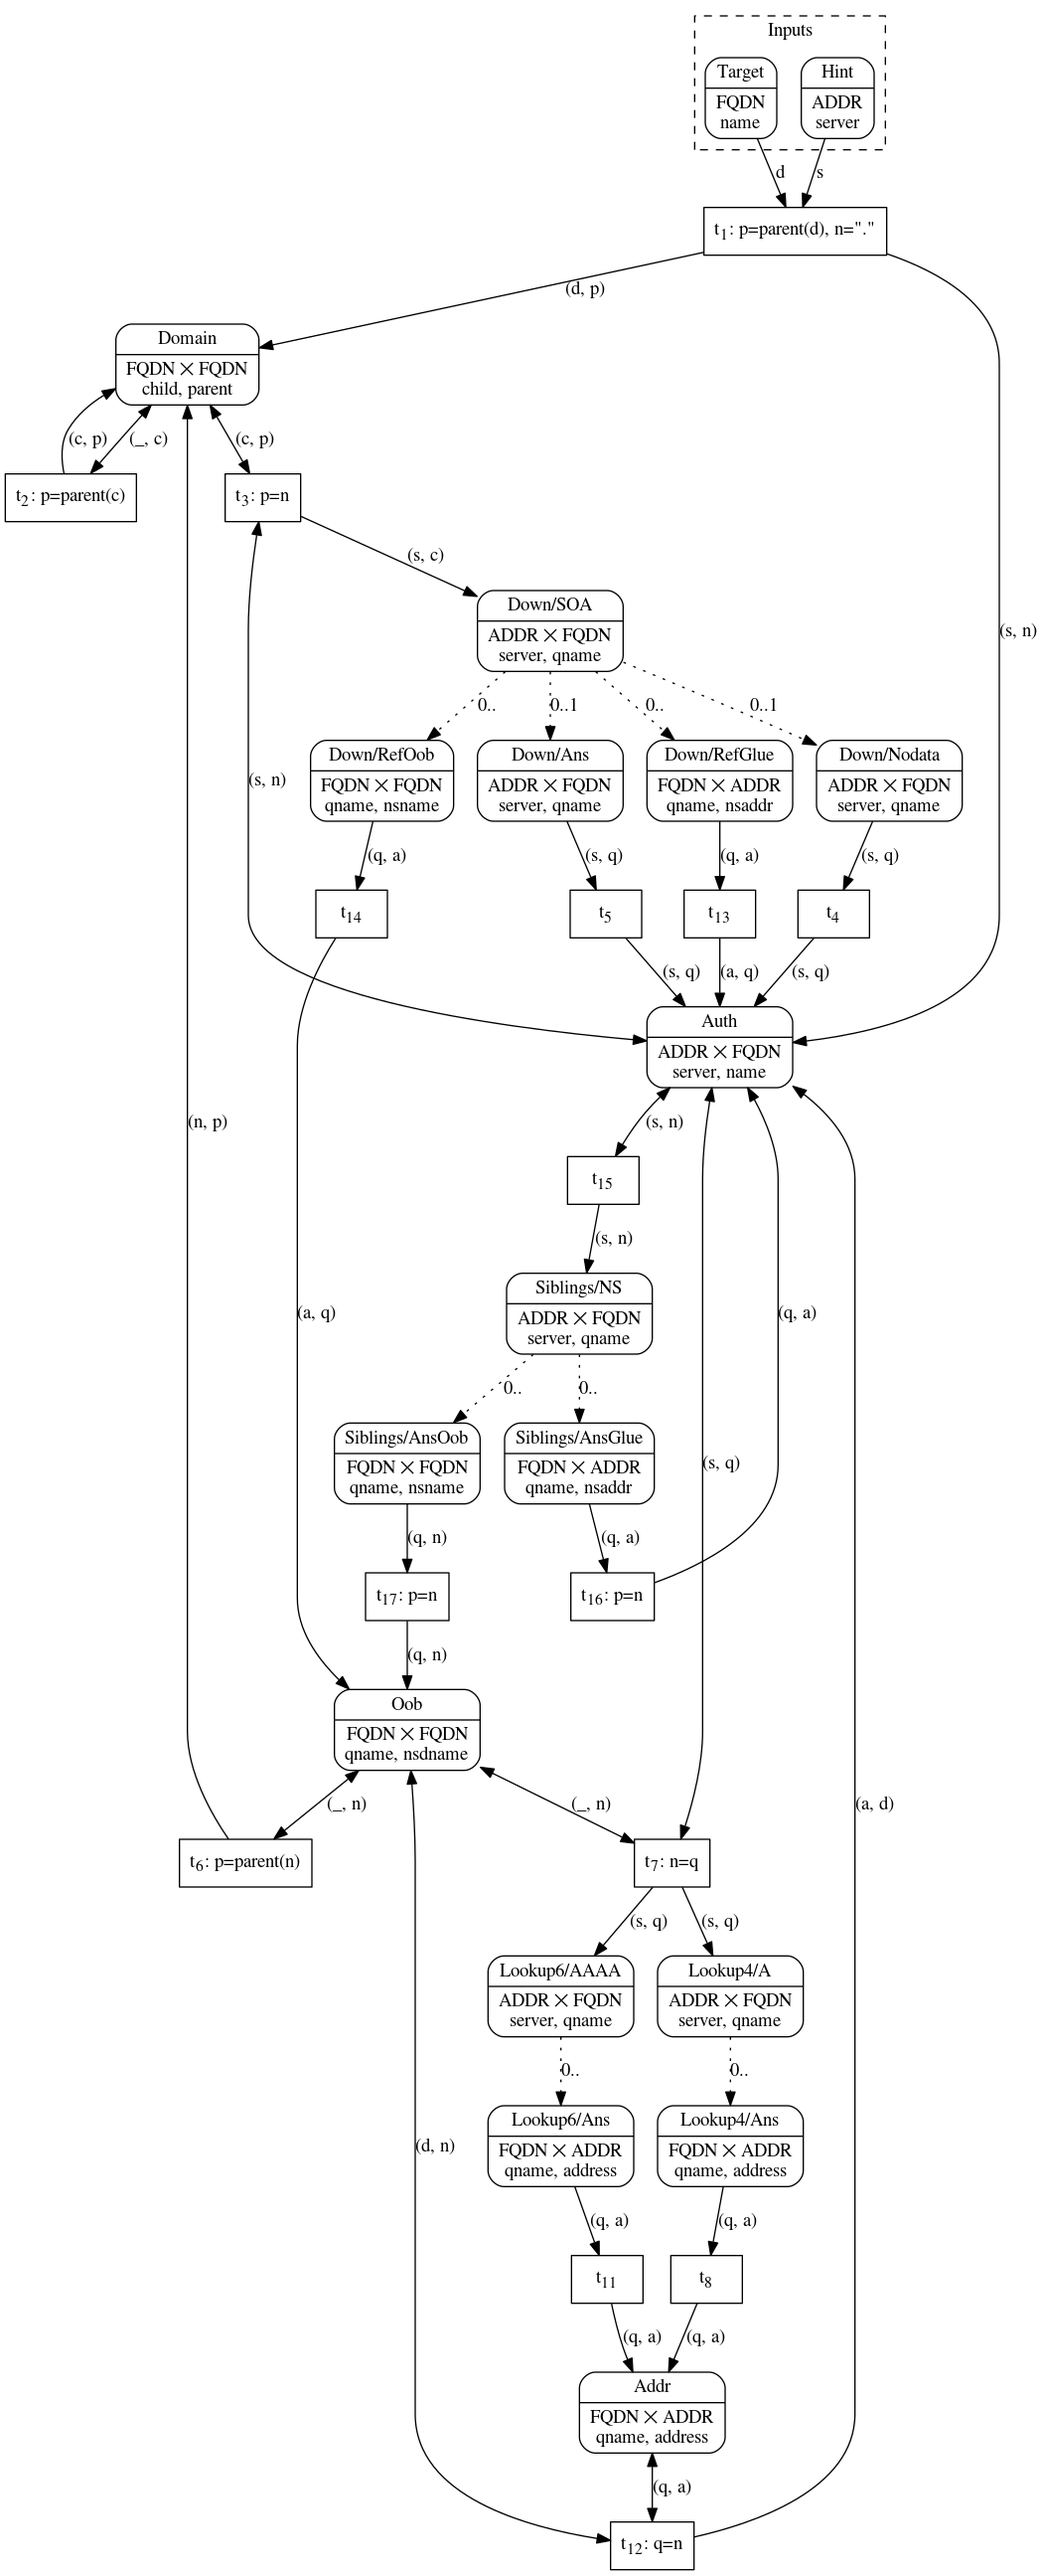
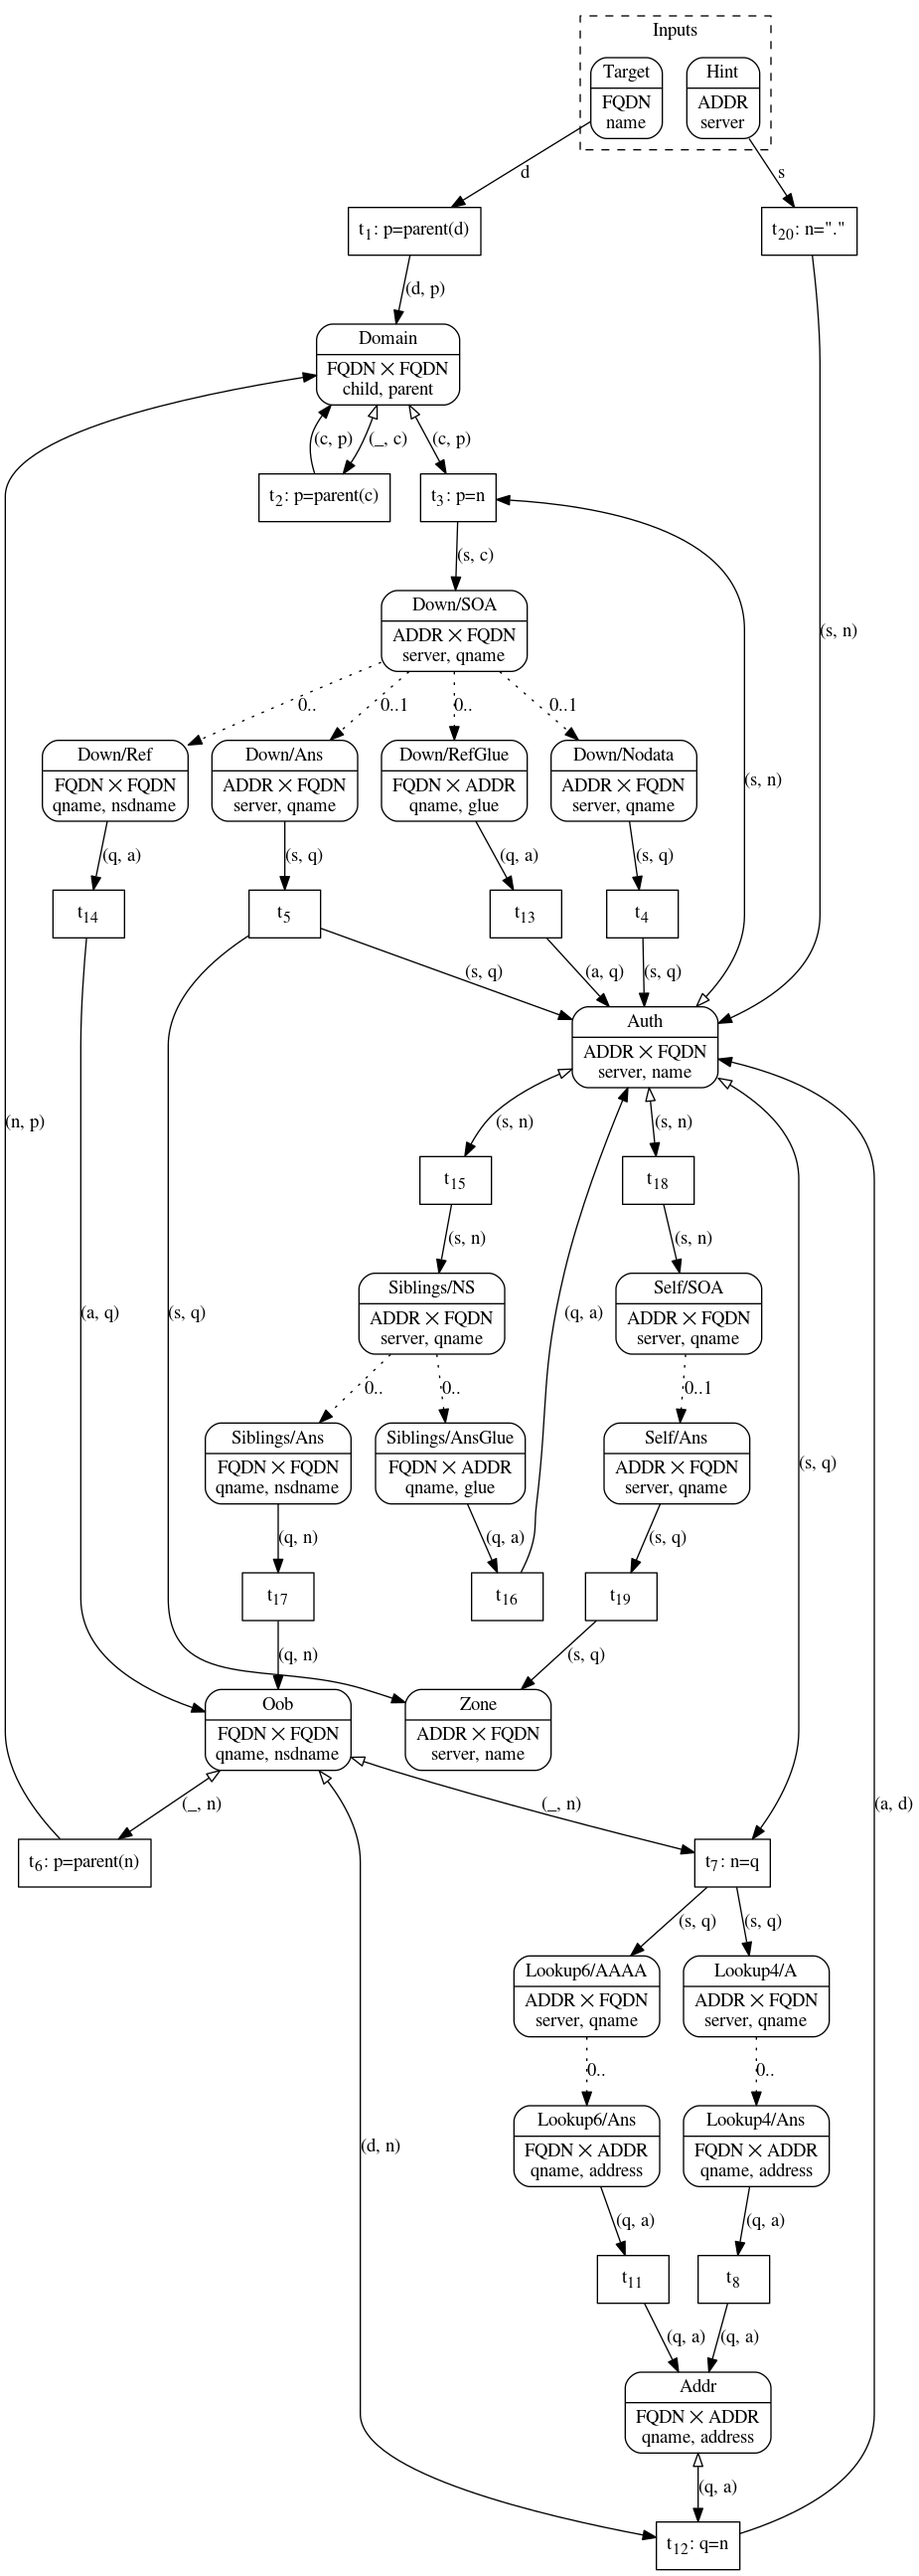
Clarify the notation in the diagram

diff --git a/README.md b/README.md
@@ -1,5 +1,99 @@
 # Topo
 
+## Notation
+
+This algorithm is defined in terms of a [Coloured Petri net] (CPN) with a few
+modifications to its rules.
+1. When a variable is used in a single place and never referred to, its name is
+   replaced with a placeholder underscore.
+
+2. For double ended arrows, the arrow head pointing to a place is depicted as
+   empty.
+   This is meant to let the reader know which arrows coming into a place are
+   double ended and which ones are not.
+   Even when the arrows themselves are very long.
+
+3. The guard expression of a transition may use a function named parent.
+   The `parent(FQDN: domain) → FQDN` function returns a copy of `domain` with
+   its least significant label removed. If `domain` contains no labels, an
+   identical FQDN is returned.
+
+4. In addition to the usual kind of places there is also "request places" and
+   "response places".
+
+   When a token is created in a "request place", a DNS request is sent to the
+   specified by the token.
+   The token also specifies the qname.
+   The qtype is taken from the name of the place.
+
+   When a response is received it is interpreted according to a set of
+   patterns.
+   Each time a pattern is matched, a token is created in the associated
+   response place, given that such a place exists.
+   The following patterns are defined:
+    1. Nodata
+       Criterion: A token is created in this place if the response has the
+       NODATA pseudo RCODE.
+    2. Ans
+       Criterion: A token is created in this place for each authoritative answer
+       record for the qname of the qtype.
+    3. AnsGlue
+       Precondition: A place of this kind must only be attached to request
+       places whose qname is NS.
+       Criterion: A token is created in this place for each A record and each
+       AAAA record in the additional section whose owner name matches the
+       NSDNAME of an authoritative NS answer for the qname of the qtype.
+    4. Ref
+       Criterion: A token is created in this place for each NS record in the
+       authority section.
+    5. RefGlue
+       Criterion: A token is created in this place for each A record and each
+       AAAA record in the additional section whose owner name matches the
+       NSDNAME of an NS record in the authority section.
+
+   The color set of a request place must be ADDR ⨉ FQDN: server, qname.
+   The exact color set of a response place is defined by the place itself, but
+   it must be a tuple consisting of the following elements:
+    1. ADDR: server - the IP address of the server the request was sent to.
+    2. FQDN: qname - the QNAME used in the request.
+    3. ADDR: glue - the ADDRESS of the A or AAAA record. Only valid for AnsGlue
+       and RefGlue response places.
+    4. FQDN: nsdname - the NSDNAME of the NS record. Only valid for Ref and
+       RefGlue response places, as well as Ans and AnsGlue response places
+       provided that the qtype is NS.
+    5. ADDR: address - the ADDRESS of the A or AAAA answer. Only valid for
+       Ans and AnsGlue response places provided that the qtype is A or AAAA.
+
+   The associations between request places and response places are depicted
+   with dotted arrows.
+
+   A label may be attached to the dotted arrow indicating the number of tokens
+   that may be created in the response place as a result of a single request.
+   The minimum number is always zero.
+   The maxmimum number is either 1 or positive infinity depending on the kind
+   and color set of the response place.
+   If the label is not present the maximum can still be inferred, but adding
+   the label is helpful to the reader.
+
+5. Unlike in regular CPNs where places contain multisets of tokens, these places
+   contain sets of tokens.
+
+6. For each qtype specified by at least one request place, there is a tracker
+   that keeps track of all tokens that have been created in request places with
+   that qtype.
+
+7. A transition can only fire if it would create at least one token in a place
+   where an identical token hasn't been before.
+
+8. A transition can only fire if it would not create a token in a request place 
+   that would be recognized by the tracker of that place.
+
+9. Execution continues with enabled transitions firing in any order until all
+   transitions are dead, causing the execution to terminate.
+
+Rules 5, 6, 7 and 8 are backwards compatible with [prioritised petri nets], 
+but by using these rules instead, we can keep the diagram more succinct.
+
 #### Inputs
 * A set of root hints.
 * A domain name.
@@ -13,41 +107,6 @@
 #### Procedure
 
 ![diagram](topo.png)
-
-This algorithm is defined in terms of a [Coloured Petri net] (CPN) with a few
-modifications to its rules.
-1. Unlike in regular CPNs where places track multisets of objects, these places
-   track sets of objects.
-2. A transition can only fire if it would send at least one object into a place
-   where it hasn't been seen before.
-3. Execution continues with live transitions firing in any order until all
-   transitions are dead, causing the execution to terminate.
-
-When a variable is used in a single place and never referred to, its name is
-replaced with a placeholder underscore.
-
-Three functions are available for use by the transitions.
-
-1. The `parent(domain: FQDN) → FQDN` function returns a copy of `domain` with
-   its least significant label removed. If `domain` contains no labels, an
-   identical FQDN is returned.
-
-2. The `send(server: ADDR, qname: FQDN, qtype: RRTYPE)` function sends a DNS
-   query for `qname` and `qtype` to `server`.
-
-3. The `receive(server: ADDR, qname: FQDN, qtype: RRTYPE) -> (bool, {RDATA},
-   {(ADDR)}, {(FQDN)})` returns the interpreted response received for a DNS
-   query for `qname` and `qtype` to `server`.
-   The elements of the returned tuple are as follows:
-   1. A boolean indicating whether response is NODATA.
-   2. A set of RDATA values, with one element per record in the answer section
-      that matches `qname` and `qtype`.
-      However if the AA flag is unset, this set is returned empty.
-      N.B. the exact type of the RDATA values depends on the value of `qtype`.
-   3. A set of name server addresses, with one element for each NS record in the
-      authority section that also comes with glue in the additional section.
-   4. A set of name server names, with one element for each NS record in the
-      authority section that is out-of-bailiwith for `qname`.
 
 The Target and Hint places are where the input objects are added before the
 starting the execution.
@@ -120,3 +179,4 @@ to Auth, which is all we needed to do.
   apex of a domain is always the domain itself.
 
 [Coloured Petri net]: https://en.wikipedia.org/wiki/Coloured_Petri_net
+[Prioritised Petri net]: https://en.wikipedia.org/wiki/Prioritised_Petri_net
